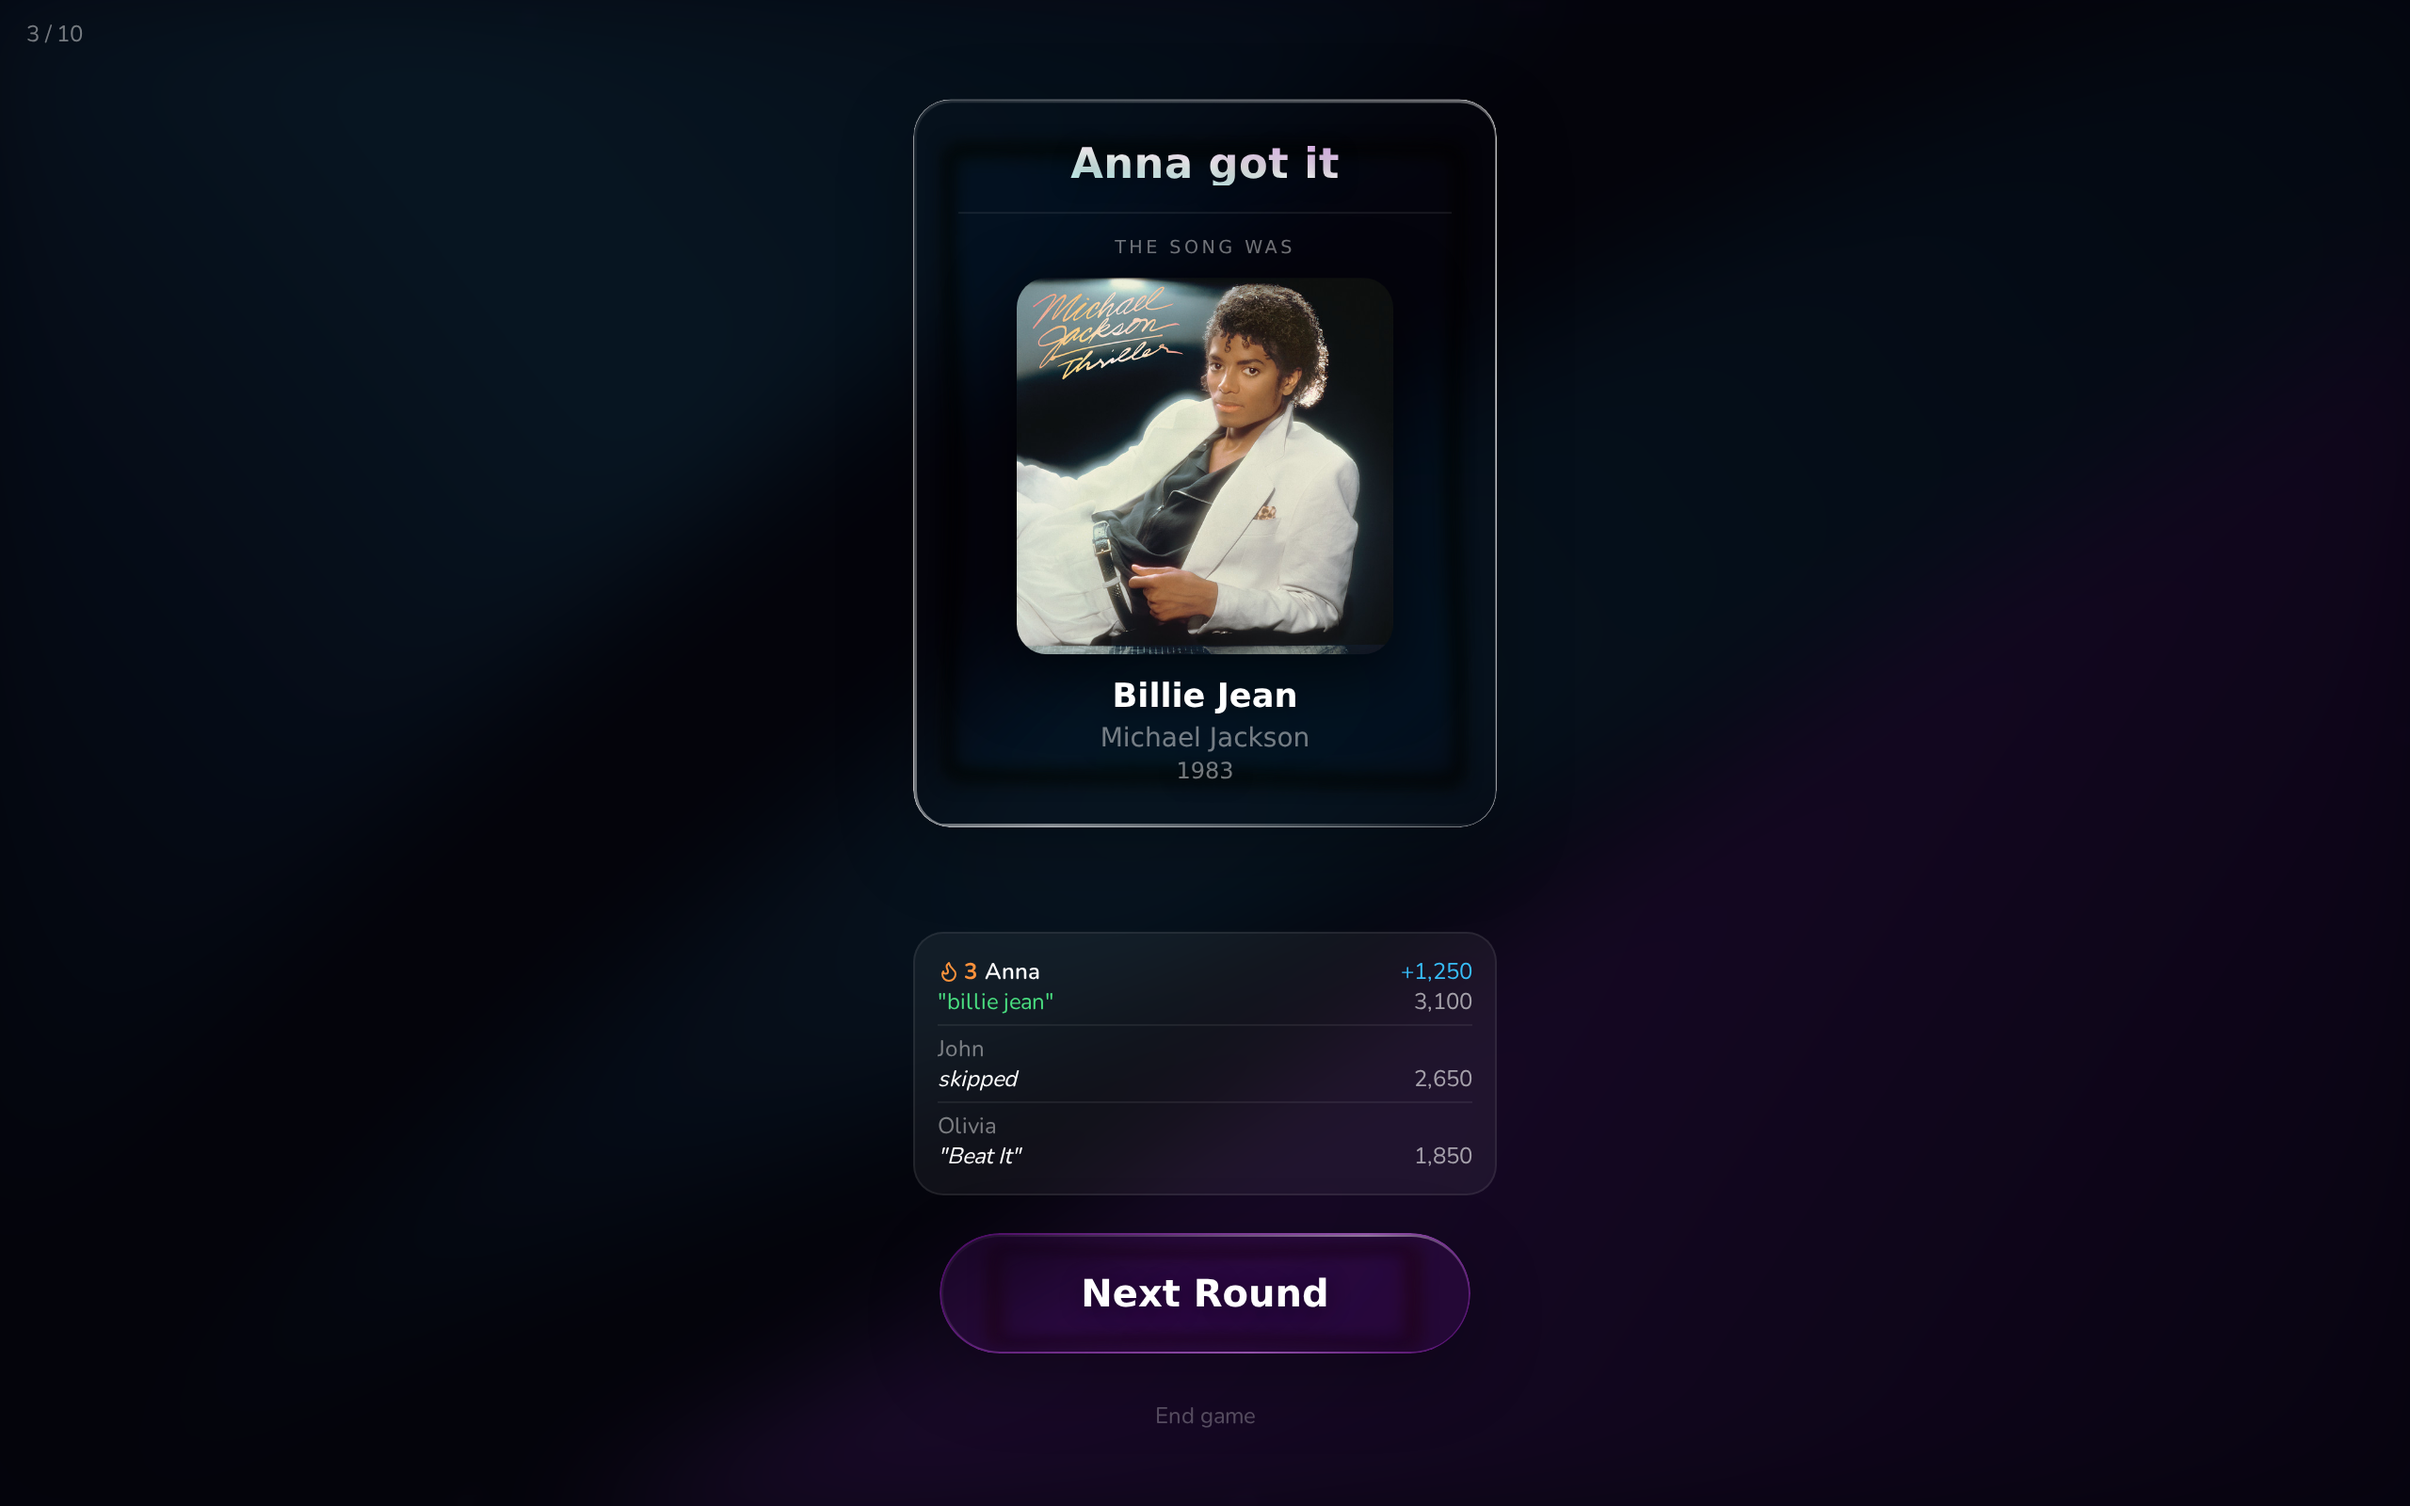
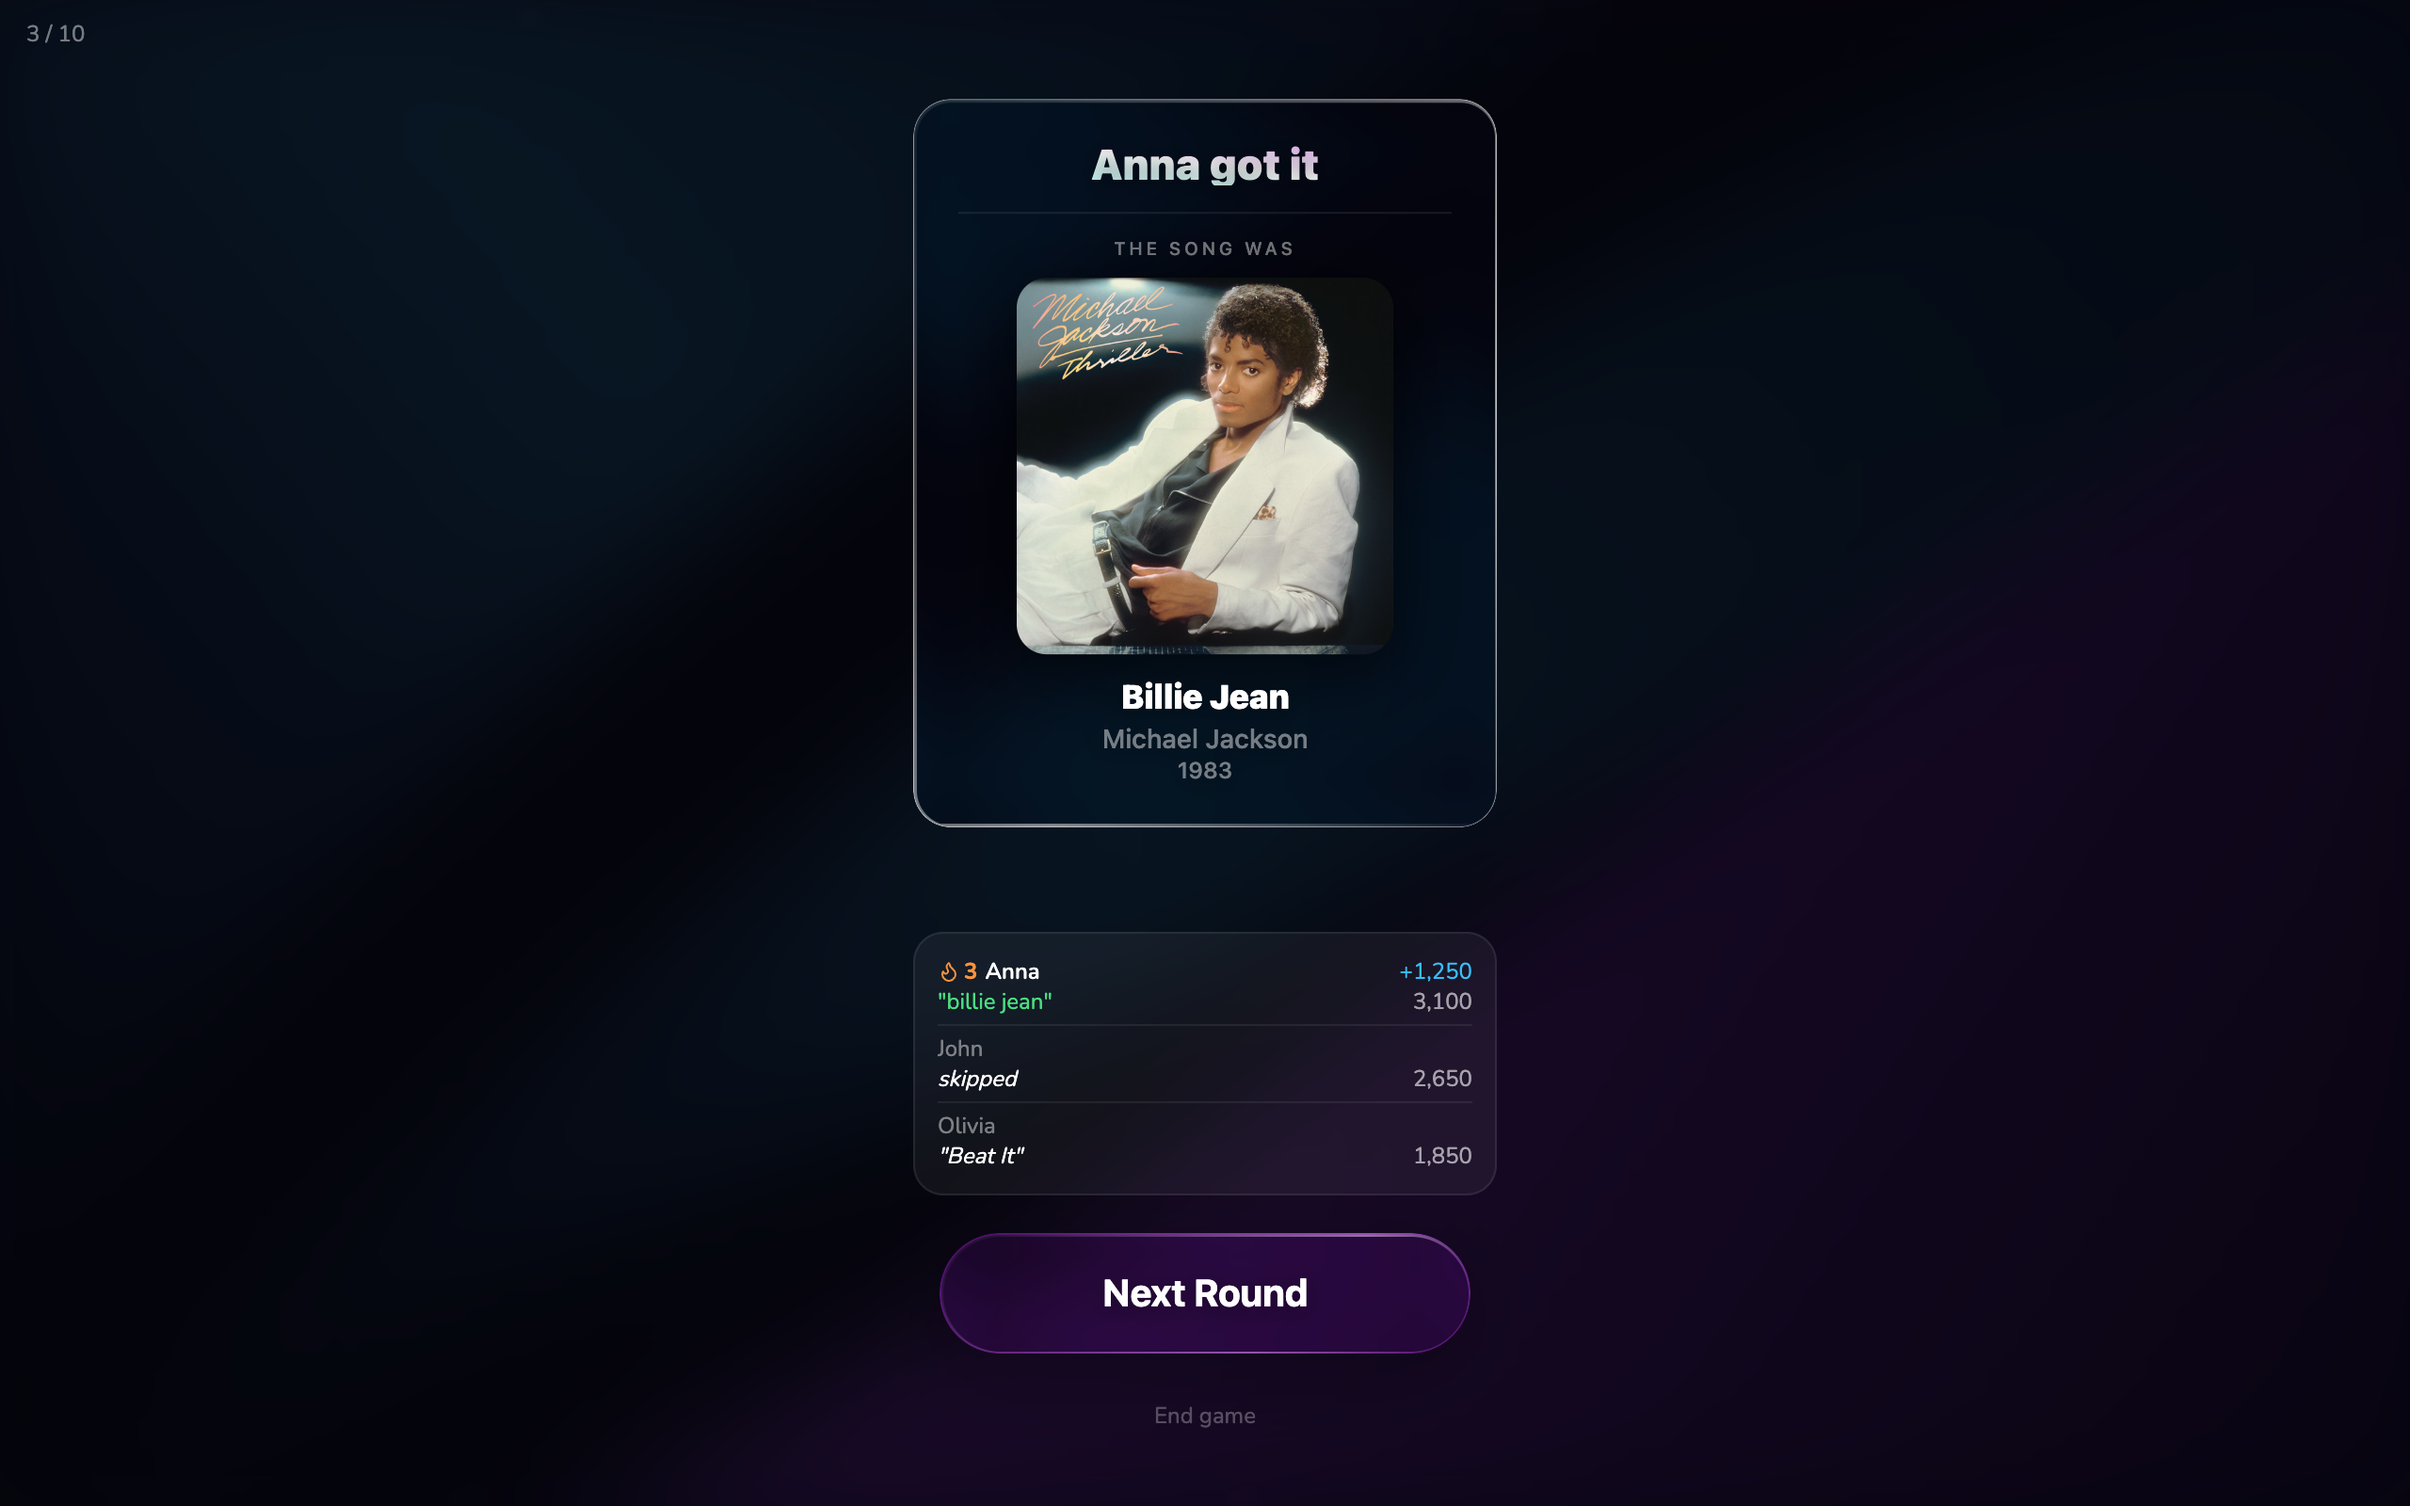
fix: remove host game card shadow rim

diff --git a/client/src/pages/host/RevealView.tsx b/client/src/pages/host/RevealView.tsx
@@ -356,7 +356,7 @@ function RevealShell({
             tier — a real cost on a short screen. */}
         <p className="text-white/45 text-xs" style={{ position: 'absolute', top: '10px', left: '14px', zIndex: 3 }}>{roundIndex + 1} / {totalRounds}</p>
 
-        <div className="liquid-btn relative" style={{ width: computeCardWidth(squeeze, wide), height: `${cardHeight}px`, zIndex: 2 }}>
+        <div className="liquid-btn host-game-card relative" style={{ width: computeCardWidth(squeeze, wide), height: `${cardHeight}px`, zIndex: 2 }}>
           <LiquidGlass
             style={{ position: 'absolute', top: '50%', left: '50%' }}
             {...LIQUID_CARD_PROPS}

diff --git a/client/src/pages/host/PlayingView.tsx b/client/src/pages/host/PlayingView.tsx
@@ -104,7 +104,7 @@ export function PlayingView({ game }: Readonly<{ game: HostState }>) {
         <PartyBadge party={party} />
         <RaceHintBar hints={hints} />
 
-        <div className="liquid-btn relative" style={{ width: 'min(77vw, 527px)', height: countdown === null ? '340px' : '306px' }}>
+        <div className="liquid-btn host-game-card relative" style={{ width: 'min(77vw, 527px)', height: countdown === null ? '340px' : '306px' }}>
           <LiquidGlass
             style={{ position: 'absolute', top: '50%', left: '50%' }}
             {...LIQUID_CARD_PROPS}

diff --git a/client/src/index.css b/client/src/index.css
@@ -651,6 +651,12 @@ select:focus-visible,
   box-shadow: 0px 12px 40px rgba(0, 0, 0, 0.125) !important;
 }
 
+/* The library's broad card shadow becomes an opaque black inset rim on the
+   large host game surfaces. Their glass edge is sufficient separation. */
+.host-game-card .glass {
+  box-shadow: none !important;
+}
+
 /* Thin, on-brand scrollbar for every scroll container (playlist picker grid,
    leaderboard, etc.) instead of the OS default. Firefox reads the two
    scrollbar-* properties on the `*` reset above; everything else reads the
